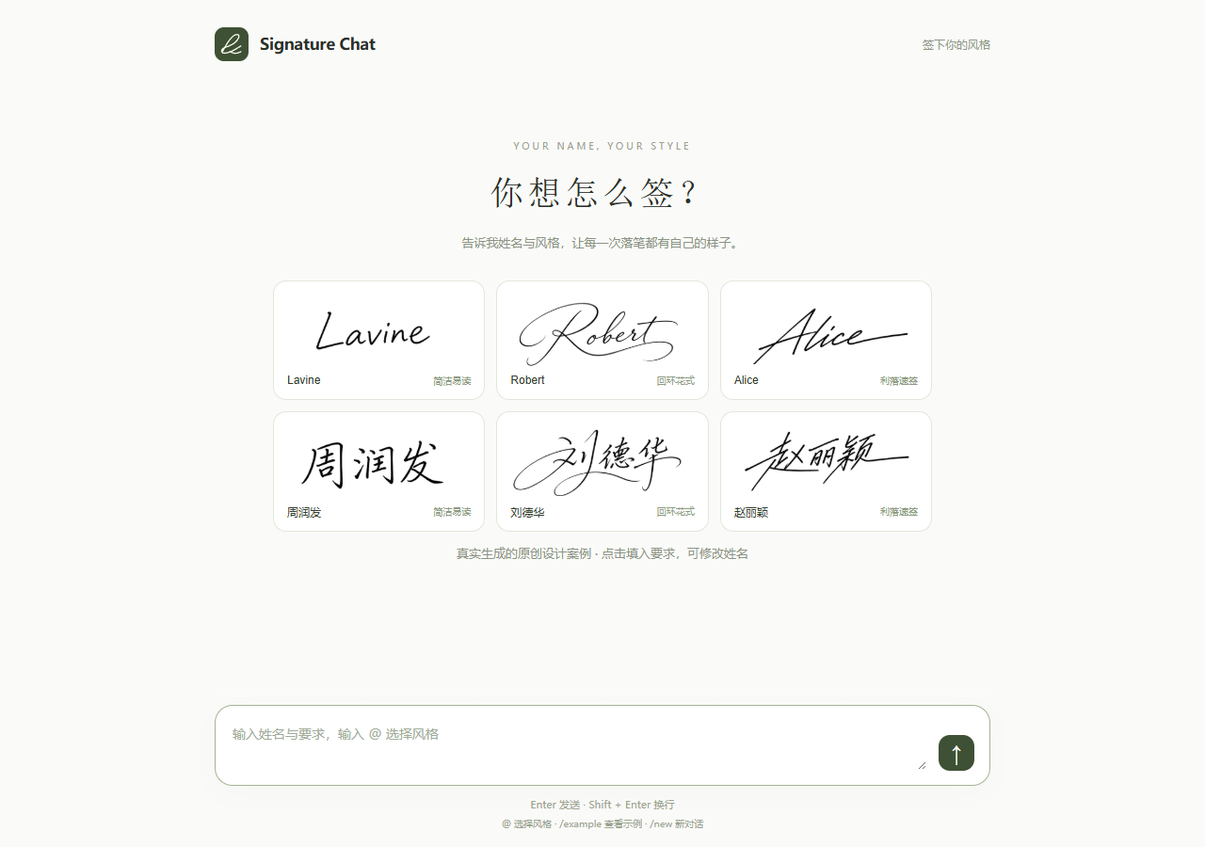
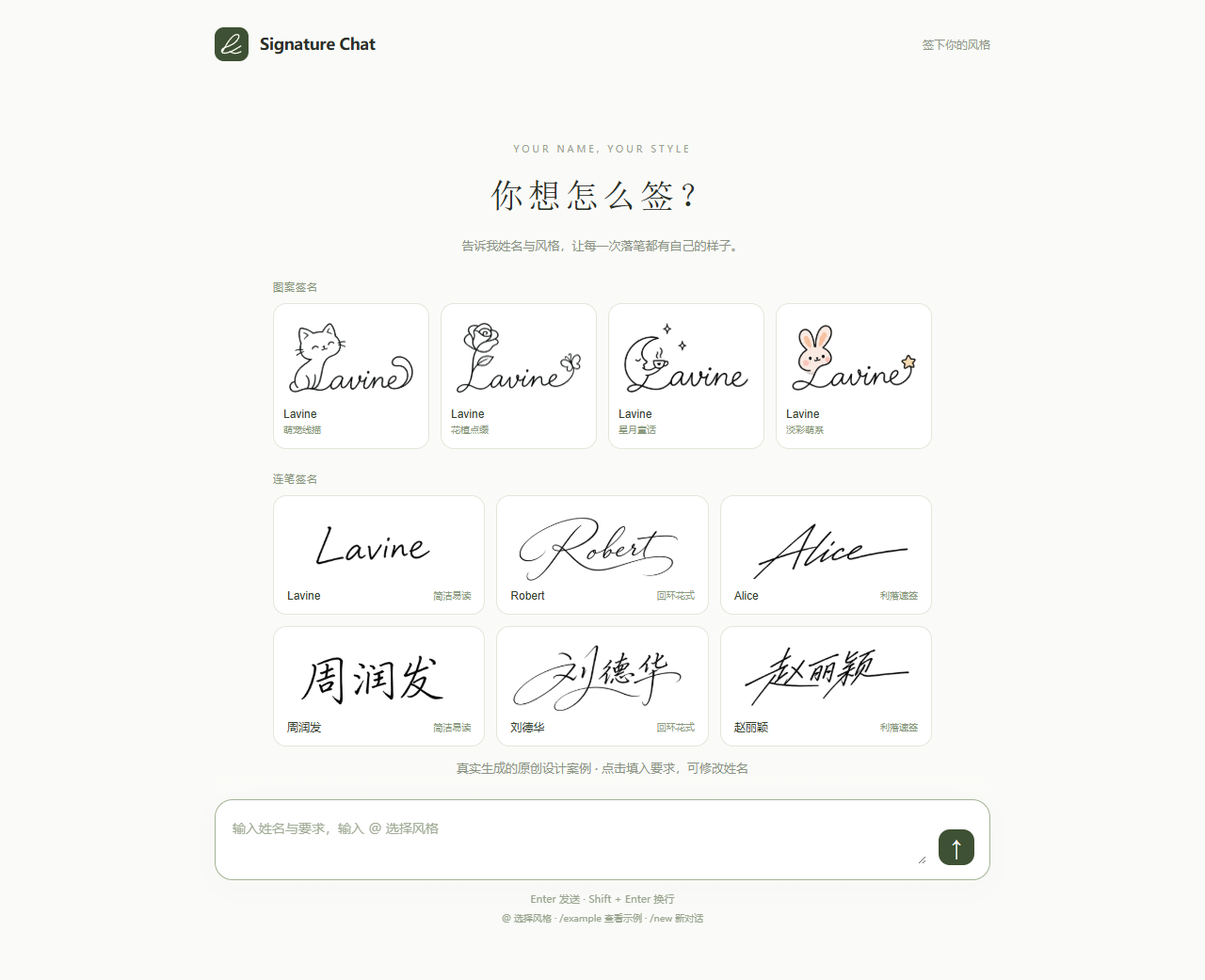
feat: add illustrated signature styles and color-preserving PNG export

diff --git a/frontend/src/style.css b/frontend/src/style.css
@@ -1,2 +1,3 @@
 :root{font:14px/1.75 'Microsoft YaHei',system-ui,sans-serif;color:#2b3029;background:#fafbf8;font-synthesis:none}*{box-sizing:border-box}body{margin:0}.studio{max-width:880px;margin:auto;padding:0 28px;min-height:100dvh;display:flex;flex-direction:column}header{height:94px;display:flex;align-items:center;gap:12px;flex-shrink:0}header strong{font-size:17px;font-weight:600;letter-spacing:-.3px}header span{margin-left:auto;color:#8f9788;font-size:12px}.conversation{flex:1;padding:16px 0 30px}.welcome{text-align:center;padding:11vh 0 8vh}.eyebrow{font-size:10px;letter-spacing:3px;color:#98a28e}h1{font:36px/1.6 'SimSun',serif;letter-spacing:4px;margin:20px 0}.welcome>p:not(.eyebrow){font-size:13px;color:#8b9384}.welcome small{display:block;font-size:11px;letter-spacing:2px;color:#a4ad9c;margin-top:28px}article{margin:20px 0 32px}.user{white-space:pre-wrap;overflow-wrap:anywhere;margin-left:auto;width:fit-content;max-width:85%;background:#eaf0e4;border-radius:20px 20px 4px 20px;padding:12px 18px}.assistant{margin:20px 0 0;color:#7c8673}.assistant p{font-size:12px}.checker{border:1px solid #e2e6dd;border-radius:12px;overflow:hidden;display:flex;justify-content:center;align-items:center;background-color:#fff;background-image:conic-gradient(#e5e9e0 25%,transparent 0 50%,#e5e9e0 0 75%,transparent 0);background-size:20px 20px}.checker img{max-width:100%;max-height:72vh;object-fit:contain;display:block}.assistant a{display:inline-block;margin-top:12px;text-decoration:none;font-size:12px;color:#5c6f4b;border-bottom:1px solid #c4cfb8}.assistant small{display:block;margin-top:6px;font-size:11px;color:#959e8d}.error{color:#a15d45;font-size:13px}.pending{font-size:13px}.pulse{display:inline-block;width:7px;height:7px;background:#8c9f77;border-radius:50%;animation:pulse 1.4s infinite}@keyframes pulse{50%{opacity:.25}}footer{position:sticky;bottom:0;padding:22px 0 16px;background:linear-gradient(transparent,#fafbf8 20px)}form{display:flex;align-items:flex-end;gap:12px;background:white;border:1px solid #dbe1d3;border-radius:19px;padding:15px 16px;box-shadow:0 8px 32px #22331104}form:focus-within{border-color:#a3b394}textarea{flex:1;min-width:0;border:0;outline:none;resize:vertical;min-height:52px;max-height:170px;background:transparent;font:14px/1.8 'Microsoft YaHei',system-ui,sans-serif;color:#303a28}textarea::placeholder{color:#a2ac97}button{flex-shrink:0;border:0;border-radius:12px;width:38px;height:38px;background:#3f5134;color:white;font-size:24px;cursor:pointer}button:disabled{opacity:.4;cursor:wait}button:focus-visible{outline:3px solid #b0c29a}.hint,.commands{text-align:center;font-size:11px;color:#9aa590}.hint{margin-top:10px}.commands{font-size:10px;margin-top:2px}@media(max-width:600px){.studio{padding:0 18px}header{height:76px}header strong{font-size:15px}header span{font-size:10px}.welcome{padding:9vh 0 6vh}h1{font-size:29px}.welcome>p:not(.eyebrow){font-size:11px}textarea{font-size:16px}.user{max-width:92%}}@media(prefers-reduced-motion:reduce){.pulse{animation:none}}
 .welcome{padding:3vh 0 1vh}.welcome h1{margin:12px 0}.example-gallery{display:grid;grid-template-columns:repeat(3,minmax(0,1fr));gap:12px;margin:28px auto 0;max-width:700px}.example-card{display:block;width:100%;height:auto;padding:12px 14px;background:#fff;border:1px solid #e1e7db;border-radius:14px;color:#34412d;text-align:left;font-size:12px;transition:border-color .15s,background .15s}.example-card:hover{border-color:#9db18b;background:#f5f8f0}.example-card img{width:100%;height:78px;object-fit:contain;display:block;margin-bottom:8px}.example-card div{display:flex;justify-content:space-between;align-items:center;gap:6px}.example-card div small{font:10px/1.5 'Microsoft YaHei',sans-serif;letter-spacing:0;margin:0;color:#8c9b80}.welcome .example-caption{font-size:10px;color:#a0aa95;margin:12px 0 0}form{position:relative}.style-menu{position:absolute;left:0;right:0;bottom:calc(100% + 8px);z-index:10;padding:10px;background:#fff;border:1px solid #dce4d3;border-radius:16px;box-shadow:0 10px 35px #26341c16;max-height:min(330px,48dvh);overflow:auto}.style-menu-heading{display:flex;justify-content:space-between;gap:8px;font-size:12px;color:#6b7b5d;padding:3px 8px 9px}.style-menu-heading span{font-size:10px;color:#a1ac96}.style-menu button{display:flex;align-items:center;gap:14px;width:100%;height:auto;border-radius:9px;background:transparent;color:#394831;text-align:left;padding:11px 10px;font:12px/1.6 'Microsoft YaHei',sans-serif}.style-menu button strong{font-size:13px;min-width:66px}.style-menu button span{color:#8a987d;font-size:11px}.style-menu button i{margin-left:auto;color:#7b9169;font-style:normal}.style-menu button.active,.style-menu button:hover{background:#edf3e6}.no-style{padding:12px;font-size:12px;color:#939d89}@media(max-width:600px){.welcome{padding:1vh 0}.example-gallery{gap:8px;margin-top:18px}.example-card{padding:10px 8px;border-radius:10px}.example-card img{height:52px;margin-bottom:6px}.example-card div{flex-direction:column;align-items:flex-start;gap:2px}.example-card div span{font-size:11px}.style-menu-heading span{font-size:9px}.style-menu button{gap:8px;padding:10px 8px}.style-menu button span{font-size:10px}.welcome .example-caption{font-size:9px}}
+.example-section{max-width:700px;margin:22px auto 0}.welcome .gallery-label{text-align:left;font-size:11px;letter-spacing:1px;color:#8a977d;margin:0 0 8px}.example-section .example-gallery{margin-top:0}.example-gallery.illustrated{grid-template-columns:repeat(4,minmax(0,1fr))}.illustrated .example-card{padding:12px 10px}.illustrated .example-card div{flex-direction:column;align-items:flex-start;gap:2px}.illustrated .example-card img{height:90px}@media(max-width:600px){.example-gallery.illustrated{grid-template-columns:repeat(2,minmax(0,1fr))}.illustrated .example-card img{height:72px}.example-section{margin-top:16px}}

diff --git a/frontend/src/styles.js b/frontend/src/styles.js
@@ -2,10 +2,18 @@ export const signatureStyles = [
   { id: 'elegant', name: '简洁易读', description: '少装饰、清晰舒展，适合日常签写', keywords: '简洁 日常 清晰 elegant simple', instruction: '简洁易读，少装饰、清晰舒展，只生成这一款' },
   { id: 'flourish', name: '回环花式', description: '大回环、流畅连笔，收笔细长', keywords: '回环 花式 优雅 flourish loop', instruction: '回环花式，大回环、流畅连笔、细长收笔，只生成这一款' },
   { id: 'sharp', name: '利落速签', description: '紧凑前倾、转折明确，直线收笔', keywords: '利落 速签 紧凑 sharp fast', instruction: '利落速签，紧凑前倾、明确转折、直线收笔，只生成这一款' },
+  { id: 'pet', name: '萌宠线描', description: '猫狗兔等小动物融入姓名笔画', keywords: '萌宠 动物 猫 狗 兔 羊 仓鼠 宠物 可爱 pet cat dog bunny cute', instruction: '萌宠线描，圆润黑色线条，把用户指定的小动物耳朵、头部或尾巴融入姓名首末笔；未指定时用原创小猫，保持姓名可读，只生成这一款' },
+  { id: 'botanical', name: '花植点缀', description: '玫瑰、叶片或蝴蝶与连笔相接', keywords: '花植 花朵 玫瑰 花草 蝴蝶 植物 floral flower butterfly rose', instruction: '花植点缀，细黑线描玫瑰、叶片或蝴蝶与姓名笔画共享线条，轻盈留白，不做独立贴纸拼贴，只生成这一款' },
+  { id: 'celestial', name: '星月童话', description: '月亮、星星与茶杯勾勒小故事', keywords: '星月 星星 月亮 贝壳 茶杯 魔法 童话 star moon celestial cup', instruction: '星月童话，以用户指定的月亮、星星、贝壳或茶杯为主题，将一个主图案融入姓名连笔，少量小星点缀，黑色圆润线描，只生成这一款' },
+  { id: 'pastel', name: '淡彩萌系', description: '黑色轮廓配少量粉色、奶黄填色', keywords: '淡彩 萌系 彩色 粉色 奶黄 浅棕 可爱 pastel color cute', instruction: '淡彩萌系，原创可爱小动物或花植融入姓名，黑色圆润轮廓，图案内部少量淡粉、桃色、奶黄或浅棕填色；外围完全透明，保留颜色，只生成这一款' },
   { id: 'compare', name: '三款对照', description: '同一姓名对比简洁、花式与速签', keywords: '三款 对照 比较 compare all', instruction: '同一姓名分别生成简洁易读、回环花式、利落速签三款对照' },
 ]
 
 export const signatureExamples = [
+  { name: 'Lavine', style: 'pet', image: '/examples/lavine-pet.png', language: '英文', motif: '小猫，耳朵和尾巴与姓名笔画相连' },
+  { name: 'Lavine', style: 'botanical', image: '/examples/lavine-botanical.png', language: '英文', motif: '玫瑰和蝴蝶，与姓名首末笔相连' },
+  { name: 'Lavine', style: 'celestial', image: '/examples/lavine-celestial.png', language: '英文', motif: '月亮与茶杯，少量星星点缀' },
+  { name: 'Lavine', style: 'pastel', image: '/examples/lavine-pastel.png', language: '英文', motif: '淡粉色兔子和奶黄色星星，与姓名笔画相连' },
   { name: 'Lavine', style: 'elegant', image: '/examples/lavine-elegant.png', language: '英文' },
   { name: 'Robert', style: 'flourish', image: '/examples/robert-flourish.png', language: '英文' },
   { name: 'Alice', style: 'sharp', image: '/examples/alice-sharp.png', language: '英文' },

diff --git a/frontend/src/components/ExampleGallery.vue b/frontend/src/components/ExampleGallery.vue
@@ -2,14 +2,21 @@
 import { signatureExamples, signatureStyles } from '../styles.js'
 defineEmits(['choose'])
 const styleName = id => signatureStyles.find(s => s.id === id).name
+const groups = [
+  { title: '图案签名', illustrated: true, examples: signatureExamples.filter(e => e.motif) },
+  { title: '连笔签名', illustrated: false, examples: signatureExamples.filter(e => !e.motif) },
+]
 </script>
 
 <template>
-  <div class="example-gallery" aria-label="真实签名案例">
-    <button v-for="example in signatureExamples" :key="example.image" type="button" class="example-card" :aria-label="`使用${example.name}的${styleName(example.style)}案例`" @click="$emit('choose', example)">
+  <section v-for="group in groups" :key="group.title" class="example-section" :aria-label="group.title">
+    <p class="gallery-label">{{ group.title }}</p>
+    <div class="example-gallery" :class="{ illustrated: group.illustrated }">
+    <button v-for="example in group.examples" :key="example.image" type="button" class="example-card" :aria-label="`使用${example.name}的${styleName(example.style)}案例`" @click="$emit('choose', example)">
       <img :src="example.image" :alt="`${example.name} · ${styleName(example.style)}原创设计案例`">
       <div><span>{{ example.name }}</span><small>{{ styleName(example.style) }}</small></div>
     </button>
-  </div>
+    </div>
+  </section>
   <p class="example-caption">真实生成的原创设计案例 · 点击填入要求，可修改姓名</p>
 </template>

diff --git a/frontend/src/App.vue b/frontend/src/App.vue
@@ -126,7 +126,7 @@ async function chooseStyle(style) {
 
 async function chooseExample(example) {
   const style = signatureStyles.find(s => s.id === example.style)
-  input.value = `请为 ${example.name} 设计${example.language}签名。${styleText(style)}`
+  input.value = `请为 ${example.name} 设计${example.language}签名。${styleText(style)}${example.motif ? '图案：' + example.motif + '。' : ''}`
   mention.value = null
   hint.value = '已填入案例要求，可修改姓名后发送；输入 @ 可以更换或补充风格。'
   await nextTick()

diff --git a/src/signature_chat/core/transparency.py b/src/signature_chat/core/transparency.py
@@ -3,8 +3,8 @@ from pathlib import Path
 from PIL import Image, ImageChops, ImageOps
 
 
-def transparent_signature(source: bytes | Path, target: Path) -> dict:
-    """Extract black ink from white/transparent artwork, keeping soft stroke edges.
+def transparent_signature(source: bytes | Path, target: Path, *, preserve_color=False) -> dict:
+    """Export transparent ink; optionally preserve pastel colors and native alpha.
 
     This is specifically a monochrome signature matte, not general photo segmentation.
     Alpha = (255 - luminance) * existing_alpha / 255; near-white noise is removed.
@@ -13,9 +13,15 @@ def transparent_signature(source: bytes | Path, target: Path) -> dict:
         if opened.width * opened.height > 25_000_000:
             raise ValueError('图片超过2500万像素限制。')
         rgba = opened.convert('RGBA')
-    ink = ImageOps.invert(ImageOps.grayscale(rgba.convert('RGB')))
-    ink = ink.point(lambda value: 0 if value <= 10 else value)
-    alpha = ImageChops.multiply(ink, rgba.getchannel('A'))
+    if preserve_color:
+        output = _color_matte(rgba)
+        alpha = output.getchannel('A')
+    else:
+        ink = ImageOps.invert(ImageOps.grayscale(rgba.convert('RGB')))
+        ink = ink.point(lambda value: 0 if value <= 10 else value)
+        alpha = ImageChops.multiply(ink, rgba.getchannel('A'))
+        output = Image.new('RGBA', rgba.size, (0, 0, 0, 0))
+        output.putalpha(alpha)
     low, high = alpha.getextrema()
     transparent_count = alpha.histogram()[0]
     edges = [(0, 0, alpha.width, 1), (0, alpha.height - 1, alpha.width, alpha.height),
@@ -23,12 +29,34 @@ def transparent_signature(source: bytes | Path, target: Path) -> dict:
     edge_zero = sum(alpha.crop(box).histogram()[0] for box in edges)
     if low != 0 or high < 32 or transparent_count < alpha.width * alpha.height * 0.05 or edge_zero < (alpha.width + alpha.height) * 2 * 0.75:
         raise ValueError('图片没有可验证的透明背景或有效笔迹，未导出。')
-    output = Image.new('RGBA', rgba.size, (0, 0, 0, 0))
-    output.putalpha(alpha)
     target.parent.mkdir(parents=True, exist_ok=True)
     temp = target.with_suffix('.tmp')
     output.save(temp, format='PNG', optimize=True)
     temp.replace(target)
     return {'width': output.width, 'height': output.height, 'format': 'PNG',
             'mode': 'RGBA', 'alpha_min': low, 'alpha_max': high,
-            'transparent_pixels': transparent_count, 'processing': 'black-ink-alpha-v1'}
+            'transparent_pixels': transparent_count,
+            'processing': 'color-preserving-alpha-v1' if preserve_color else 'black-ink-alpha-v1'}
+
+
+def _color_matte(rgba):
+    """Preserve native transparency; on opaque white art remove near-white only.
+
+    Keeps pastel RGB values and fills, unlike the monochrome inverse-luminance
+    matte. Intermediate near-white pixels are un-matted to limit white halos.
+    This is a clean white-canvas fallback, not general photo segmentation.
+    """
+    if rgba.getchannel('A').getextrema()[0] < 255:
+        return rgba.copy()
+    result = bytearray(rgba.tobytes())
+    for offset in range(0, len(result), 4):
+        red, green, blue = result[offset:offset + 3]
+        whiteness = min(red, green, blue)
+        if whiteness >= 250:
+            result[offset:offset + 4] = b'\x00\x00\x00\x00'
+        elif whiteness > 230:
+            alpha = round((250 - whiteness) / 20 * 255)
+            channels = [max(0, min(255, round(255 - (255 - channel) * 255 / alpha)))
+                        for channel in (red, green, blue)]
+            result[offset:offset + 4] = bytes((*channels, alpha))
+    return Image.frombytes('RGBA', rgba.size, bytes(result))

diff --git a/tests/test_studio.py b/tests/test_studio.py
@@ -5,6 +5,7 @@ import uuid
 from pathlib import Path
 from PIL import Image, ImageChops, ImageStat
 from signature_chat.core.prompt import build_prompt
+from signature_chat.core.styles import design_policy
 from signature_chat.core.transparency import transparent_signature
 from signature_chat.infra.provider import C2AProvider, decode_response, ProviderError
 from signature_chat.infra.store import Store
@@ -15,6 +16,34 @@ SAMPLE = ROOT / 'assets/styles-transparent.png'
 
 
 class TransparentExportTests(unittest.TestCase):
+    def test_real_pastel_native_alpha_and_rgb_survive(self):
+        source = ROOT / 'assets/illustrated-transparent.png'
+        with tempfile.TemporaryDirectory() as tmp:
+            output = Path(tmp) / 'color.png'
+            metadata = transparent_signature(source, output, preserve_color=True)
+            self.assertEqual(metadata['processing'], 'color-preserving-alpha-v1')
+            with Image.open(source) as original, Image.open(output) as result:
+                self.assertEqual(original.tobytes(), result.tobytes())
+                red, green, blue, alpha = result.split()
+                self.assertGreater(ImageChops.difference(red, blue).getextrema()[1], 20)
+                self.assertEqual(alpha.getextrema(), (0, 255))
+
+    def test_real_pastel_white_fallback_retains_color(self):
+        with tempfile.TemporaryDirectory() as tmp, Image.open(ROOT / 'assets/illustrated-transparent.png') as ink:
+            white = Image.new('RGBA', ink.size, 'white')
+            white.alpha_composite(ink)
+            source, target = Path(tmp) / 'white.png', Path(tmp) / 'result.png'
+            white.convert('RGB').save(source)
+            transparent_signature(source, target, preserve_color=True)
+            with Image.open(target) as result:
+                red, green, blue, alpha = result.split()
+                self.assertGreater(ImageChops.difference(red, blue).getextrema()[1], 20)
+                self.assertEqual(alpha.getextrema(), (0, 255))
+                recomposed = Image.new('RGBA', result.size, 'white')
+                recomposed.alpha_composite(result)
+                error = ImageStat.Stat(ImageChops.difference(recomposed.convert('RGB'), white.convert('RGB')))
+                self.assertLess(max(error.mean), 1)
+
     def test_real_showcase_has_actual_alpha(self):
         for name in ('styles-transparent.png', 'bilingual-transparent.png'):
             with Image.open(ROOT / 'assets' / name) as image:
@@ -45,6 +74,17 @@ class TransparentExportTests(unittest.TestCase):
 
 
 class ConversationTests(unittest.TestCase):
+    def test_illustrated_styles_and_color_override(self):
+        pet = build_prompt(['给 Lavine 设计签名【风格：萌宠线描，小猫融入笔画】'])
+        self.assertIn('animal line-art', pet)
+        self.assertNotIn('Default comparison:', pet)
+        pastel = ['给 Lavine 设计签名【风格：淡彩萌系，保留粉色】']
+        self.assertTrue(design_policy(pastel)['preserve_color'])
+        self.assertNotIn('BLACK INK ONLY', build_prompt(pastel))
+        self.assertFalse(design_policy(pastel + ['改为黑白'])['preserve_color'])
+        self.assertFalse(design_policy(pastel + ['【风格：简洁易读，只生成这一款】'])['preserve_color'])
+        self.assertFalse(design_policy(pastel + ['【风格：同一姓名分别生成简洁易读、回环花式、利落速签三款对照】'])['illustrated'])
+
     def test_context_preserves_exact_name_and_change(self):
         prompt = build_prompt(['给 Lavine 设计签名', '只保留一款，收笔短一点'])
         self.assertIn('Lavine', prompt)

diff --git a/src/signature_chat/core/prompt.py b/src/signature_chat/core/prompt.py
@@ -1,3 +1,6 @@
+from signature_chat.core.styles import design_policy
+
+
 def build_prompt(messages: list[str]) -> str:
     if not messages or len(messages) > 50:
         raise ValueError('对话应包含1至50条要求，请开始新对话。')
@@ -6,13 +9,20 @@ def build_prompt(messages: list[str]) -> str:
     context = '\n\n'.join(f'User request {i + 1}: {text}' for i, text in enumerate(messages))
     if len(context) > 20000:
         raise ValueError('对话已过长，请开始新对话。')
+    policy = design_policy(messages)
+    color_rule = ('BLACK INK CONTOURS with restrained pastel accent fills inside the illustration. Preserve the chosen accent colors; keep all surrounding canvas transparent.'
+                  if policy['preserve_color'] else 'BLACK INK ONLY. No color fills.')
     return '\n'.join([
         'Design original handwritten signature lettering using the conversation below. Latest user instructions take precedence.',
         'Use the exact provided names, character order and capitalization. Do not invent translations or copy authentic celebrity autographs.',
-        'BLACK INK ONLY. Transparent background. If transparency is unavailable, use a perfectly plain white background. No textures, colors, shadows or opaque panels. Export processing extracts black ink only.',
+        color_rule,
+        'Transparent background. If transparency is unavailable, use absolute pure white. No textures, shadows, opaque panels or checkerboard pixels.',
         'Default aesthetic: fine fountain-pen strokes, natural pressure variation, connected cursive, airy horizontal composition, graceful elliptical loops and long terminal hairlines.',
-        'Default comparison: three clearly different styles (legible restrained everyday handwriting; expansive oval-loop ornamental cursive; sharp compressed forward-slanted fast autograph). Use one style if the user asks for one.',
+        ('Create one integrated illustrated signature, not a three-style specimen sheet. ' + policy['guidance']
+         if policy['illustrated'] else 'Default comparison: three clearly different styles (legible restrained everyday handwriting; expansive oval-loop ornamental cursive; sharp compressed forward-slanted fast autograph). Use one style if the user asks for one.'),
         'Chinese uses genuine running-script stroke structures; English stays readable. Only use the languages and names actually provided. A new name replaces earlier names unless comparison is requested.',
-        'Show signatures and small name labels only, with generous spacing. No conversation text, UI, borders or watermarks. This is text-guided regeneration, not pixel editing of a previous image.',
+        ('Show the name woven into the requested motif; no extra captions or typeset name labels. Motifs share strokes with lettering. Keep the name readable and use an original character design.'
+         if policy['illustrated'] else 'Show signatures and small name labels only, with generous spacing.'),
+        'No conversation text, UI, borders or watermarks. This is text-guided regeneration, not pixel editing of a previous image.',
         context,
     ])

diff --git a/src/signature_chat/core/styles.py b/src/signature_chat/core/styles.py
@@ -1,0 +1,31 @@
+import re
+
+ILLUSTRATED_STYLES = {
+    '萌宠线描': 'Original minimalist cute animal line-art signature. Integrate ears, head, paws or tail into the initial, connecting stroke or ending. Rounded clean black monoline, tiny friendly face, readable cursive name. Use the requested animal; if unspecified use a small original kitten.',
+    '花植点缀': 'Original botanical signature. Grow a simple rose, small flower, leaf or butterfly from a name stroke. Fine black ink, airy spacing, restrained petals, light organic flow. Share strokes between lettering and motif rather than attaching unrelated clipart.',
+    '星月童话': 'Original celestial doodle signature. Integrate a crescent moon, tiny four-point star, shell or teacup into the initial or finishing stroke. Use only one main motif and two or three small sparkles. Minimal rounded black line art and readable handwritten name.',
+    '淡彩萌系': 'Original pastel illustrated signature. Black rounded ink contours with a small animal or botanical motif woven into the name. Add only small blush pink, peach, warm cream or light brown accent fills inside the motif. No colored background, gradients, realistic shading or large color blocks.',
+}
+PLAIN_STYLES = ('简洁易读', '回环花式', '利落速签', '三款对照')
+
+
+def design_policy(messages):
+    """Resolve explicit style markers and later color changes in conversation order."""
+    style = None
+    color = False
+    names = '|'.join((*ILLUSTRATED_STYLES, *PLAIN_STYLES))
+    for text in messages:
+        markers = re.findall(r'【风格：([^】]+)】', text)
+        source = markers[-1] if markers else text
+        matches = re.findall(names, source)
+        if '同一姓名分别生成' in source:
+            style, color = '三款对照', False
+        elif matches:
+            style = matches[-1]
+            color = style == '淡彩萌系'
+        if re.search(r'淡彩|彩色|粉色|奶黄|浅棕|pastel|color accents', text, re.I):
+            color = True
+        if re.search(r'黑白|纯黑|去掉颜色|不要(?:颜色|彩色|淡彩)|black[- ]and[- ]white|monochrome', text, re.I):
+            color = False
+    return {'style': style, 'illustrated': style in ILLUSTRATED_STYLES,
+            'preserve_color': color, 'guidance': ILLUSTRATED_STYLES.get(style, '')}

diff --git a/src/signature_chat/services/studio.py b/src/signature_chat/services/studio.py
@@ -1,6 +1,7 @@
 import threading
 import uuid
 from signature_chat.core.prompt import build_prompt
+from signature_chat.core.styles import design_policy
 from signature_chat.core.transparency import transparent_signature
 from signature_chat.infra.provider import ProviderError
 
@@ -32,7 +33,9 @@ class Studio:
                 raise ValueError('已有签名正在生成，请稍候。')
             if not self.provider.configured:
                 raise ValueError('请设置 C2A_API_KEY 环境变量并重启程序。')
-            prompt = build_prompt([r['message'] for r in rows if r['session'] == session] + [message])
+            messages = [r['message'] for r in rows if r['session'] == session] + [message]
+            prompt = build_prompt(messages)
+            policy = design_policy(messages)
             self.store.add(key, session, message)
             self.active = True
 
@@ -40,7 +43,8 @@ class Studio:
             try:
                 raw = self.provider.generate(prompt)
                 output = self.store.root / 'images' / f'{key}.png'
-                metadata = transparent_signature(raw, output)
+                metadata = transparent_signature(raw, output, preserve_color=policy['preserve_color'])
+                metadata['style'] = policy['style']
                 metadata['requested_model'] = self.provider.model
                 self.store.finish(key, 'success', metadata)
             except ProviderError as exc:

diff --git a/src/signature_chat/cli.py b/src/signature_chat/cli.py
@@ -18,13 +18,14 @@ def main():
     matte = sub.add_parser('transparent', help='Convert monochrome white-background artwork into transparent PNG')
     matte.add_argument('input', type=Path)
     matte.add_argument('output', type=Path)
+    matte.add_argument('--preserve-color', action='store_true', help='Keep pastel ink and illustration fills')
     args = parser.parse_args()
     if args.command == 'transparent':
         if args.input.resolve() == args.output.resolve() or args.output.exists():
             parser.error('Choose a new output path; existing files are not overwritten.')
         if args.output.suffix.lower() != '.png':
             parser.error('The output must use the .png extension.')
-        metadata = transparent_signature(args.input, args.output)
+        metadata = transparent_signature(args.input, args.output, preserve_color=args.preserve_color)
         print(f"Transparent PNG: {metadata['width']}x{metadata['height']}; RGBA; {metadata['transparent_pixels']} transparent pixels")
     else:
         if not 1 <= args.port <= 65535:

diff --git a/src/signature_chat/__init__.py b/src/signature_chat/__init__.py
@@ -1,3 +1,3 @@
 """Signature Chat: original signature design, transparent PNG exports."""
 
-__version__ = "0.1.1"
+__version__ = "0.2.0"

diff --git a/README.en.md b/README.en.md
@@ -13,8 +13,8 @@ The animation records the actual Vue application selecting a real welcome-screen
 ## Features
 
 - One text box for names, languages, style requirements, and follow-up changes.
-- Three default directions: restrained and legible, ornamental loops, and angular fast autographs; single styles are also supported.
-- **Transparent PNG downloads**: request transparency, extract black ink locally, and export only RGBA PNGs with verified transparent pixels.
+- Three lettering directions (legible, ornamental loops, angular fast autographs) plus four illustrated styles: cute pets, botanical details, celestial doodles, and pastel characters.
+- **Transparent PNG downloads**: request transparency, process ink locally or preserve pastel colors, and export only RGBA PNGs with verified transparent pixels.
 - The checkerboard is a preview background and is never exported.
 - SQLite stores conversations, statuses, and actual dimensions; refresh to resume viewing.
 - Request IDs prevent duplicate calls. No automatic generation retries. Interrupted jobs are marked on restart.
@@ -56,7 +56,7 @@ The endpoint is `https://c2a.jiaopilot.com/v1/responses`; the image tool default
 
 Ask for “a large-loop English signature for Lavine,” then “shorten the finishing stroke and show only one design.” Enter sends; Shift + Enter inserts a newline.
 
-The welcome screen includes six real signature examples. Clicking one only fills in editable instructions; it does not generate an image or initiate a charge. Change the name as needed.
+The welcome screen includes ten real signature examples. Clicking one only fills in editable instructions; it does not generate an image or initiate a charge. Change the name as needed.
 
 Type `@` to open the style picker, then type a keyword such as `loop` to filter. Use ↑ / ↓, Enter to select, Esc to dismiss, or click an option. Enter selects without sending while the picker is open. Style instructions are inserted visibly into the message; choosing another style replaces the previous selection.
 
@@ -70,15 +70,23 @@ Follow-up text produces a new image from the accumulated instructions, not a pre
 
 For **black ink on a white or transparent canvas**, the matte estimates ink opacity from inverse luminance and multiplies it by the existing alpha. It preserves soft stroke edges, removes near-white noise, and sets RGB to black. Export checks require transparent pixels and meaningful ink; otherwise no output is delivered.
 
-This is not general background removal: colored ink becomes black, and photos, shadows, or textured backgrounds are unsupported. Generation instructions therefore require monochrome ink and a clean background.
+Selecting the pastel style or explicitly asking for pastel accents enables color-preserving export. Native transparent images keep their RGB and alpha; opaque white images use a near-white removal fallback that retains color fills and reduces white edges. A later “black and white” request switches back to monochrome processing.
+
+This is not general background removal. Photos, shadows, and textured backgrounds are unsupported. Very pale, near-white fills may become transparent in the white-background fallback; native transparent output is preferred.
 
 Offline conversion is available:
 
 ```bash
 signature-chat transparent input.png output-transparent.png
+# Preserve pastel illustration colors
+signature-chat transparent pastel.png pastel-transparent.png --preserve-color
 ```
 
 The source is preserved and the output must be a new `.png` file.
+
+![Illustrated signature styles, transparent](assets/illustrated-transparent.png)
+
+Type `@pet`, `@flower`, `@moon`, or `@pastel` to select an illustrated style. Add instructions such as “replace the kitten with a bunny.” Names and motifs are regenerated from the full text context. Reference photos informed style analysis only; published examples are newly generated original compositions.
 
 ![Six names, three styles, transparent comparison](assets/styles-transparent.png)
 
